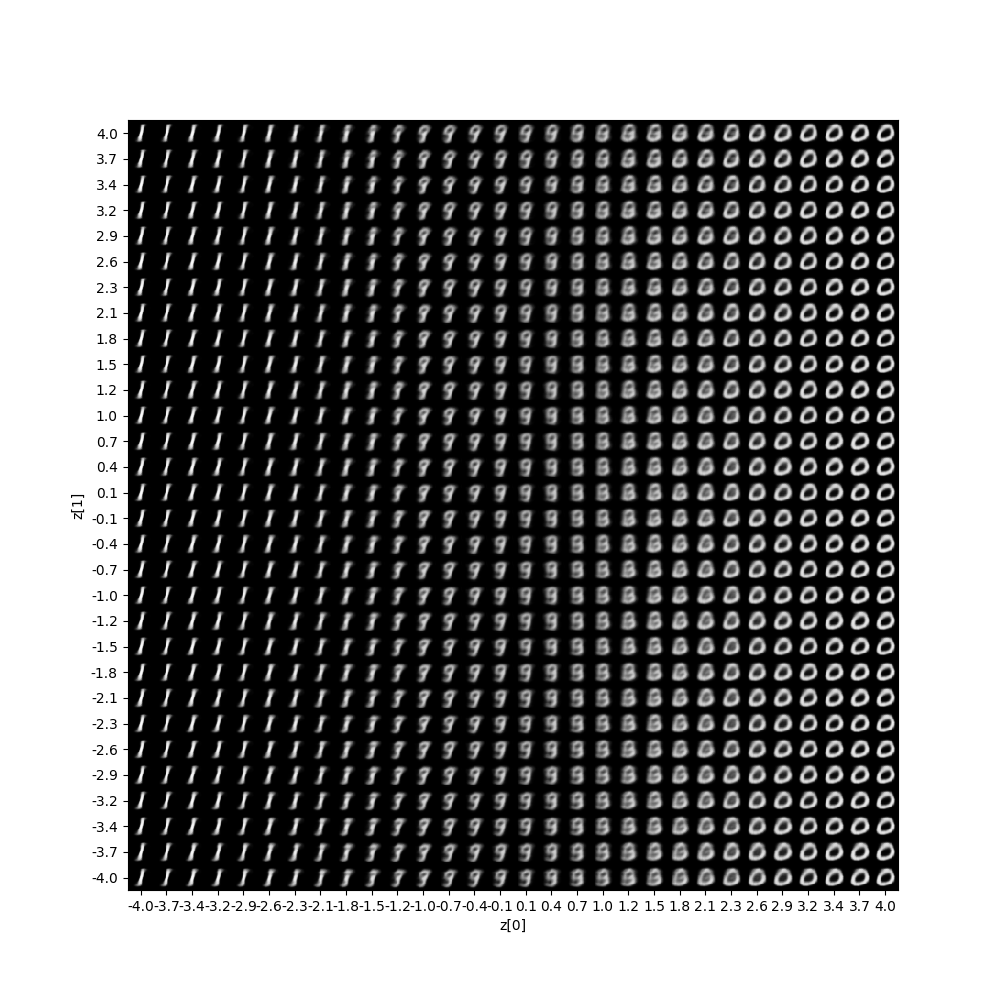
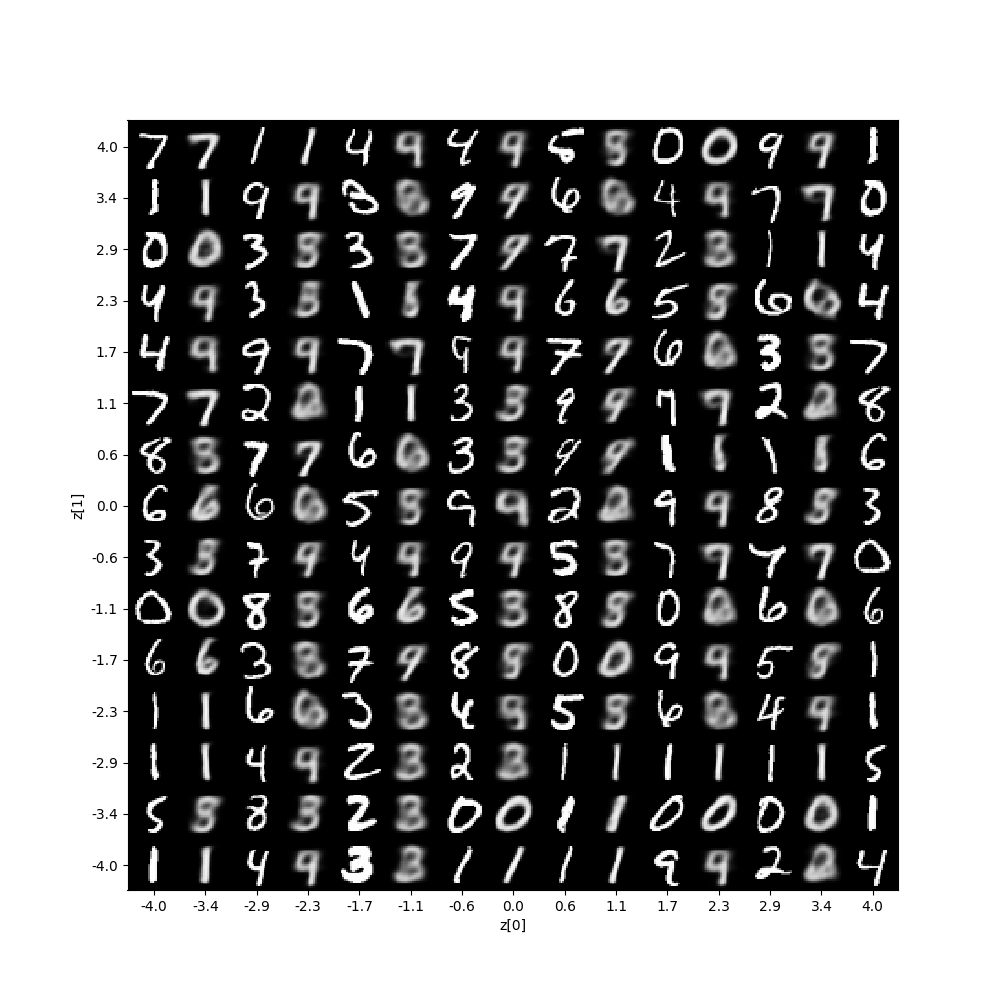
fix vae for multi-channel image

Changed region(s): [[0.093, 0.124, 0.899, 0.93]]

diff --git a/vae-cnn/vae.py b/vae-cnn/vae.py
@@ -4,10 +4,11 @@ import keras
 from keras.datasets import mnist
 from keras.losses import mse, binary_crossentropy
 from keras import backend as K
-# from keras.utils import plot_model
+from keras.utils import plot_model
 from keras.models import Model
 from keras.layers import Lambda, Input, Dense
 
+from sklearn.model_selection import train_test_split
 import numpy as np
 import matplotlib.pyplot as plt
 from os import sys
@@ -17,12 +18,13 @@ import os
 class VAE:
 
     def __init__(self):
-        self.batch_size = 128
+        self.batch_size = 64
         self.kernel_size = 4
         self.filters = 32
-        self.epochs = 30
+        self.epochs = 500
         self.lr = .0001
-        self.model_name = "conv_vae_latent_{}.h5"
+        self.num_channels = 3
+        self.model_name = "conv_vae_latent_{}_model.h5"
 
     def sampling(self, args):
         """Reparameterization trick by sampling from an isotropic unit Gaussian.
@@ -100,11 +102,20 @@ class VAE:
         plt.show()
 
     def load_data(self, npz):
-        (x_train, y_train), (x_test, y_test) = npz.load_data() # change this line
-        # data = np.load("CartPole-v0_10_10.npz")
-        image_size = x_train.shape[1]
-        x_train = np.reshape(x_train, [-1, image_size, image_size, 1])
-        x_test = np.reshape(x_test, [-1, image_size, image_size, 1])
+        data = np.load(npz)
+        files = data.files
+        p = np.array(data[files[0]])
+        #print(data['arr_1'][0])
+        files.remove(files[0])
+        for i in files:
+            np.append(p, data[i])
+        # print(p)
+        x_train, x_test, y_train, y_test = train_test_split(p, p)
+        # print(x_train.shape)
+        image_size_x = x_train.shape[1]
+        image_size_y = x_train.shape[2]
+        x_train = np.reshape(x_train, [-1, image_size_x, image_size_y, self.num_channels]) # 3 is # of color channels
+        x_test = np.reshape(x_test, [-1, image_size_x, image_size_y, self.num_channels])
         x_train = x_train.astype('float32') / 255
         x_test = x_test.astype('float32') / 255
         return (x_train, y_train), (x_test, y_test)
@@ -115,7 +126,7 @@ class VAE:
         x2 = keras.layers.convolutional.Conv2D(self.filters*2, self.kernel_size, strides=2, activation='relu',padding='same')(x1)
         # x3 = keras.layers.Conv2D(128, 4, 2, activation='relu')(x2)
         shape = K.int_shape(x2)
-        # print(shape)
+
         xf = keras.layers.Flatten()(x2)
         xf = Dense(16, activation='relu')(xf)
         self.z_mean = Dense(latent_dim, name='z_mean')(xf)
@@ -124,7 +135,7 @@ class VAE:
         self.z = Lambda(self.sampling, output_shape=(latent_dim,), name='z')([self.z_mean, self.z_log_var]) # latent vec
 
         encoder = Model(inputs, [self.z_mean, self.z_log_var, self.z], name='encoder')
-        encoder.summary() #??
+        encoder.summary()
         # plot_model(encoder, to_file='vae_mlp_encoder.png', show_shapes=True)
 
         latent_inputs = Input(shape=(latent_dim,), name='z_sampling')
@@ -133,7 +144,7 @@ class VAE:
         y1 = keras.layers.Conv2DTranspose(self.filters*2, self.kernel_size, strides=2, activation='relu',padding='same')(y)
         y2 = keras.layers.Conv2DTranspose(self.filters, self.kernel_size, strides=2, activation='relu',padding='same')(y1)
         # outputs = Dense(original_dim, activation='sigmoid')(y2)
-        outputs = keras.layers.Conv2DTranspose(1, self.kernel_size, strides=1, activation='sigmoid', padding='same')(y2)
+        outputs = keras.layers.Conv2DTranspose(self.num_channels, self.kernel_size, strides=1, activation='sigmoid', padding='same')(y2)
 
         decoder = Model(latent_inputs, outputs, name='decoder')
         decoder.summary()
@@ -144,18 +155,28 @@ class VAE:
 
         return encoder, decoder, self.outputs, vae
 
-    def make_vae(self, npz_file_path, latent_size):
-        (self.x_train, y_train), (self.x_test, y_test) = self.load_data(npz_file_path)
-        image_size = self.x_train.shape[1]
-        input_shape = (image_size, image_size, 1)
+    def make_vae(self, npz, latent_size):
+        (self.x_train, y_train), (self.x_test, y_test) = self.load_data(npz)
+        image_size_x = self.x_train.shape[1]
+        image_size_y = self.x_train.shape[2]
+        input_shape = (image_size_x, image_size_y, self.num_channels)
         self.inputs = Input(shape=input_shape, name='encoder_input')
         self.encoder, self.decoder, self.outputs, self.vae = self.make_models(self.inputs, latent_size)
+
+        # CODE THAT TESTS IF ENCODING AND DECODING WORKS
+        # x_test_feed = np.reshape(self.x_test, [-1, image_size_x, image_size_y, 1])
+        # latent_vector = self.encode_image(x_test_feed)
+        # print("output for encode:" )
+        # print(latent_vector)
+        # print("output for decode:" )
+        # print(self.decode_latent(latent_vector))
+
 
         models = (self.encoder, self.decoder)
         data = (self.x_test, y_test)
         reconstruction_loss = binary_crossentropy(K.flatten(self.inputs),
                                                   K.flatten(self.outputs))
-        reconstruction_loss *= image_size * image_size
+        reconstruction_loss *= image_size_x * image_size_y * self.num_channels
         kl_loss = 1 + self.z_log_var - K.square(self.z_mean) - K.exp(self.z_log_var)
         kl_loss = K.sum(kl_loss, axis=-1)
         kl_loss *= -0.5
@@ -171,9 +192,11 @@ class VAE:
                 batch_size=self.batch_size,
                 validation_data=(self.x_test, None))
         self.vae.save_weights(self.model_name)
+        # self.vae.save(self.model_name)
 
     def load_model(self, weights_file_path):
         self.vae.load_weights(weights_file_path)
+        # self.vae = keras.models.load_model(weights_file_path)
 
     def encode_image(self, image):
         z_mean, z_log_var, z = self.encoder.predict(image, batch_size=1)
@@ -230,51 +253,14 @@ if __name__ == '__main__':
     args = parser.parse_args()
     # latent_dim = args.latent_size
     convVae = VAE()
-    convVae.make_vae(mnist, 2)
-    # plot_model(vae, to_file='vae_cnn.png', show_shapes=True)
+    # TODO: put this in to argumentparser
+    convVae.make_vae("CartPole-v0_10_10.npz", 2)
+    # The below line requires a ton of arguments
+    # plot_model(convVae, to_file='vae_cnn.png', show_shapes=True)
 
     if args.weights:
         convVae.load_model(args.weights)
     else:
         convVae.train_vae()
 
-    #convVae.plot_results(models, data, batch_size=self.batch_size, model_name="vae_cnn")
-
-"""
-# random debug stuff
-n = 15 # figure with 15x15 digits
-digit_size = 28
-figure = np.zeros((digit_size * n, digit_size * n))
-
-# grid_x = norm.ppf(np.linspace(0.05, 0.95, n))
-# grid_y = norm.ppf(np.linspace(0.05, 0.95, n))
-grid_x = np.linspace(-4, 4, n)
-grid_y = np.linspace(-4, 4, n)[::-1]
-for i, yi in enumerate(grid_x):
-    for j, xi in enumerate(grid_y):
-        z_sample = np.array([[xi, yi]])
-        if (j % 2 == 0):
-            x_decoded = x_test[i*14 + j: i*14 + j + 1]
-        else:
-            x_decoded = convVae.decode_latent(convVae.encode_image(x_decoded))
-        digit = x_decoded[0]import scipy.misc
-        figure[i * digit_size: (i + 1) * digit_size,
-               j * digit_size: (j + 1) * digit_size] = digit
-
-plt.figure(figsize=(10, 10))
-start_range = digit_size // 2
-end_range = n * digit_size + start_range + 1
-pixel_range = np.arange(start_range, end_range, digit_size)
-sample_range_x = np.round(grid_x, 1)
-sample_range_y = np.round(grid_y, 1)
-plt.xticks(pixel_range, sample_range_x)
-plt.yticks(pixel_range, sample_range_y)
-plt.xlabel("z[0]")
-plt.ylabel("z[1]")
-plt.imshow(figure, cmap='Greys_r')
-# plt.savefig(filename)
-plt.show()
-
-import scipy.misc
-scipy.misc.imsave(filename, digit)
-"""
+    # plot_results(models, data, batch_size=self.batch_size, model_name="vae_cnn")
